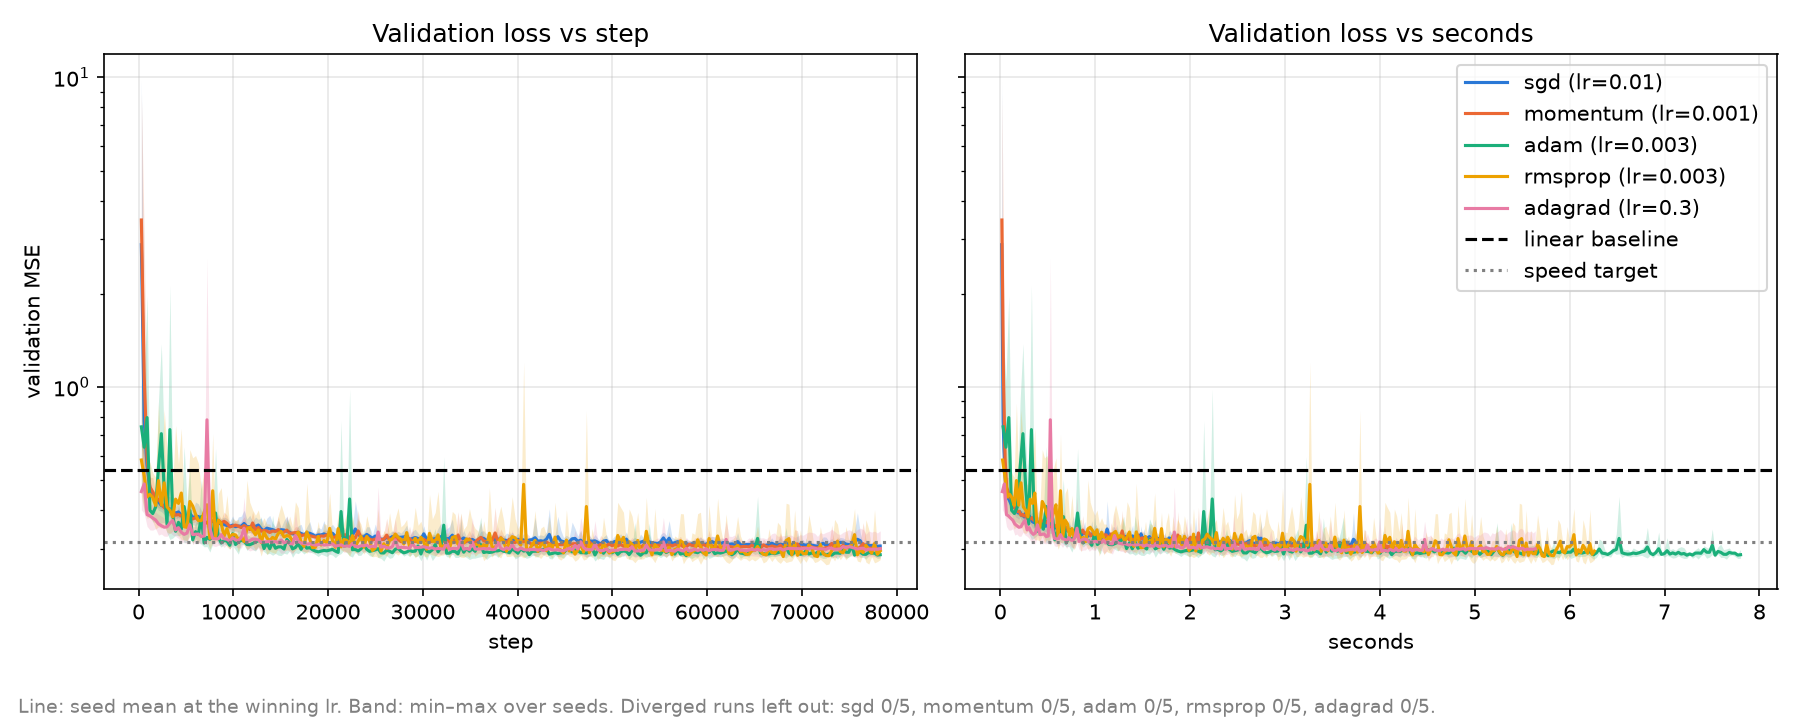
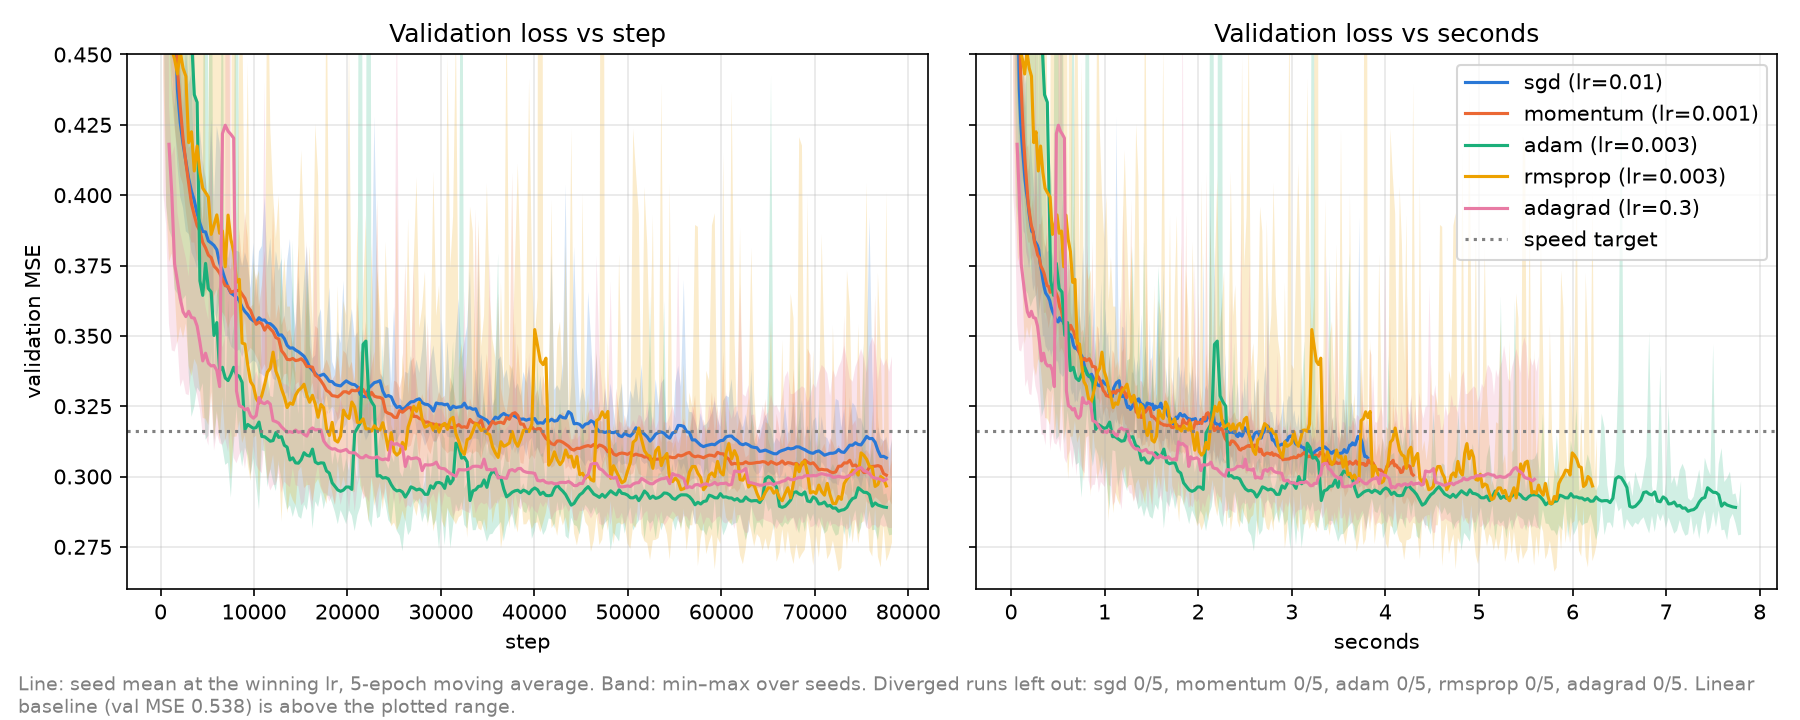
val_loss_curve.png fixed

diff --git a/plots.py b/plots.py
@@ -18,6 +18,10 @@ FIG_DIR = Path(__file__).parent / "figures"
 
 # val MSE an optimizer has to reach for the time-to-target comparison
 SPEED_TARGET = 0.316
+# y range of the val loss curves, zoomed in on where the optimizers separate
+CURVE_YLIM = (0.26, 0.45)
+# the mean line is averaged over this many neighbouring epochs to smooth epoch-to-epoch jumps
+SMOOTH_EPOCHS = 5
 
 # same order as train.OPTIMIZERS; each optimizer keeps its color in every figure
 OPTIMIZER_COLORS = {
@@ -94,10 +98,12 @@ def plot_loss_vs_step_and_time(curves, linear_baseline, path):
         for name, c in curves.items():
             color = OPTIMIZER_COLORS[name]
             ax.fill_between(c[x_key], c["loss"].min(axis=0), c["loss"].max(axis=0), color=color, alpha=0.2, linewidth=0)
-            ax.plot(c[x_key], c["loss"].mean(axis=0), color=color, label=f"{name} (lr={c['lr']:g})")
-        ax.axhline(linear_baseline, color="black", linestyle="--", label="linear baseline")
+            # moving average of the seed mean; "valid" drops half a window at each end, so trim x to match
+            smooth = np.convolve(c["loss"].mean(axis=0), np.ones(SMOOTH_EPOCHS) / SMOOTH_EPOCHS, mode="valid")
+            half = SMOOTH_EPOCHS // 2
+            ax.plot(c[x_key][half:len(c[x_key]) - half], smooth, color=color, label=f"{name} (lr={c['lr']:g})")
         ax.axhline(SPEED_TARGET, color="gray", linestyle=":", label="speed target")
-        ax.set_yscale("log")
+        ax.set_ylim(*CURVE_YLIM)
         ax.set_xlabel(x_key)
         ax.set_title(f"Validation loss vs {x_key}")
         ax.grid(alpha=0.3)
@@ -105,7 +111,8 @@ def plot_loss_vs_step_and_time(curves, linear_baseline, path):
     axes[1].legend()
 
     counts = ", ".join(f"{name} {c['n_diverged']}/{c['n_runs']}" for name, c in curves.items())
-    save(fig, path, f"Line: seed mean at the winning lr. Band: min–max over seeds. Diverged runs left out: {counts}.")
+    save(fig, path, f"Line: seed mean at the winning lr, {SMOOTH_EPOCHS}-epoch moving average. Band: min–max over seeds. Diverged runs left out: {counts}. "
+                    f"Linear baseline (val MSE {linear_baseline:.3f}) is above the plotted range.")
 
 
 def plot_lr_sweep(lr_rows, path):

diff --git a/lr_sweep.py b/lr_sweep.py
@@ -7,7 +7,7 @@ from train import LOG_DIR, OPTIMIZERS, training_run
 
 
 
-PHASE = "final"
+PHASE = "pilot"
 
 STANDARDIZED = False
 SWEEP_DIR = LOG_DIR / f"{PHASE}_{"std" if STANDARDIZED else "raw"}"

diff --git a/README.md b/README.md
@@ -88,7 +88,7 @@ python plots.py
 
 Saves three PNGs to `figures/`:
 
-- `val_loss_curves.png`: validation loss vs step and vs seconds for the final runs. One line per optimizer (seed mean at its winning lr), a min–max band, log y-axis, dashed lines for the linear-regression baseline and the speed target. Diverged runs are left out of the band and counted in the caption.
+- `val_loss_curves.png`: validation loss vs step and vs seconds for the final runs. One line per optimizer (seed mean at its winning lr), a min–max band, y-axis zoomed to 0.26–0.45 so the optimizers separate, a dotted line for the speed target; the linear-regression baseline (0.538) is above that range and given in the caption. Diverged runs are left out of the band and counted in the caption.
 - `lr_sweep.png`: best validation loss vs learning rate (log x and y), one line per optimizer. A gap means a seed diverged at that lr.
 - `feature_scale.png`: mean best validation loss per optimizer with standardized (filled) vs raw (hollow) features. SGD and Momentum have no raw point; they are labeled "diverged at every lr" in the plot and the caption.
 
